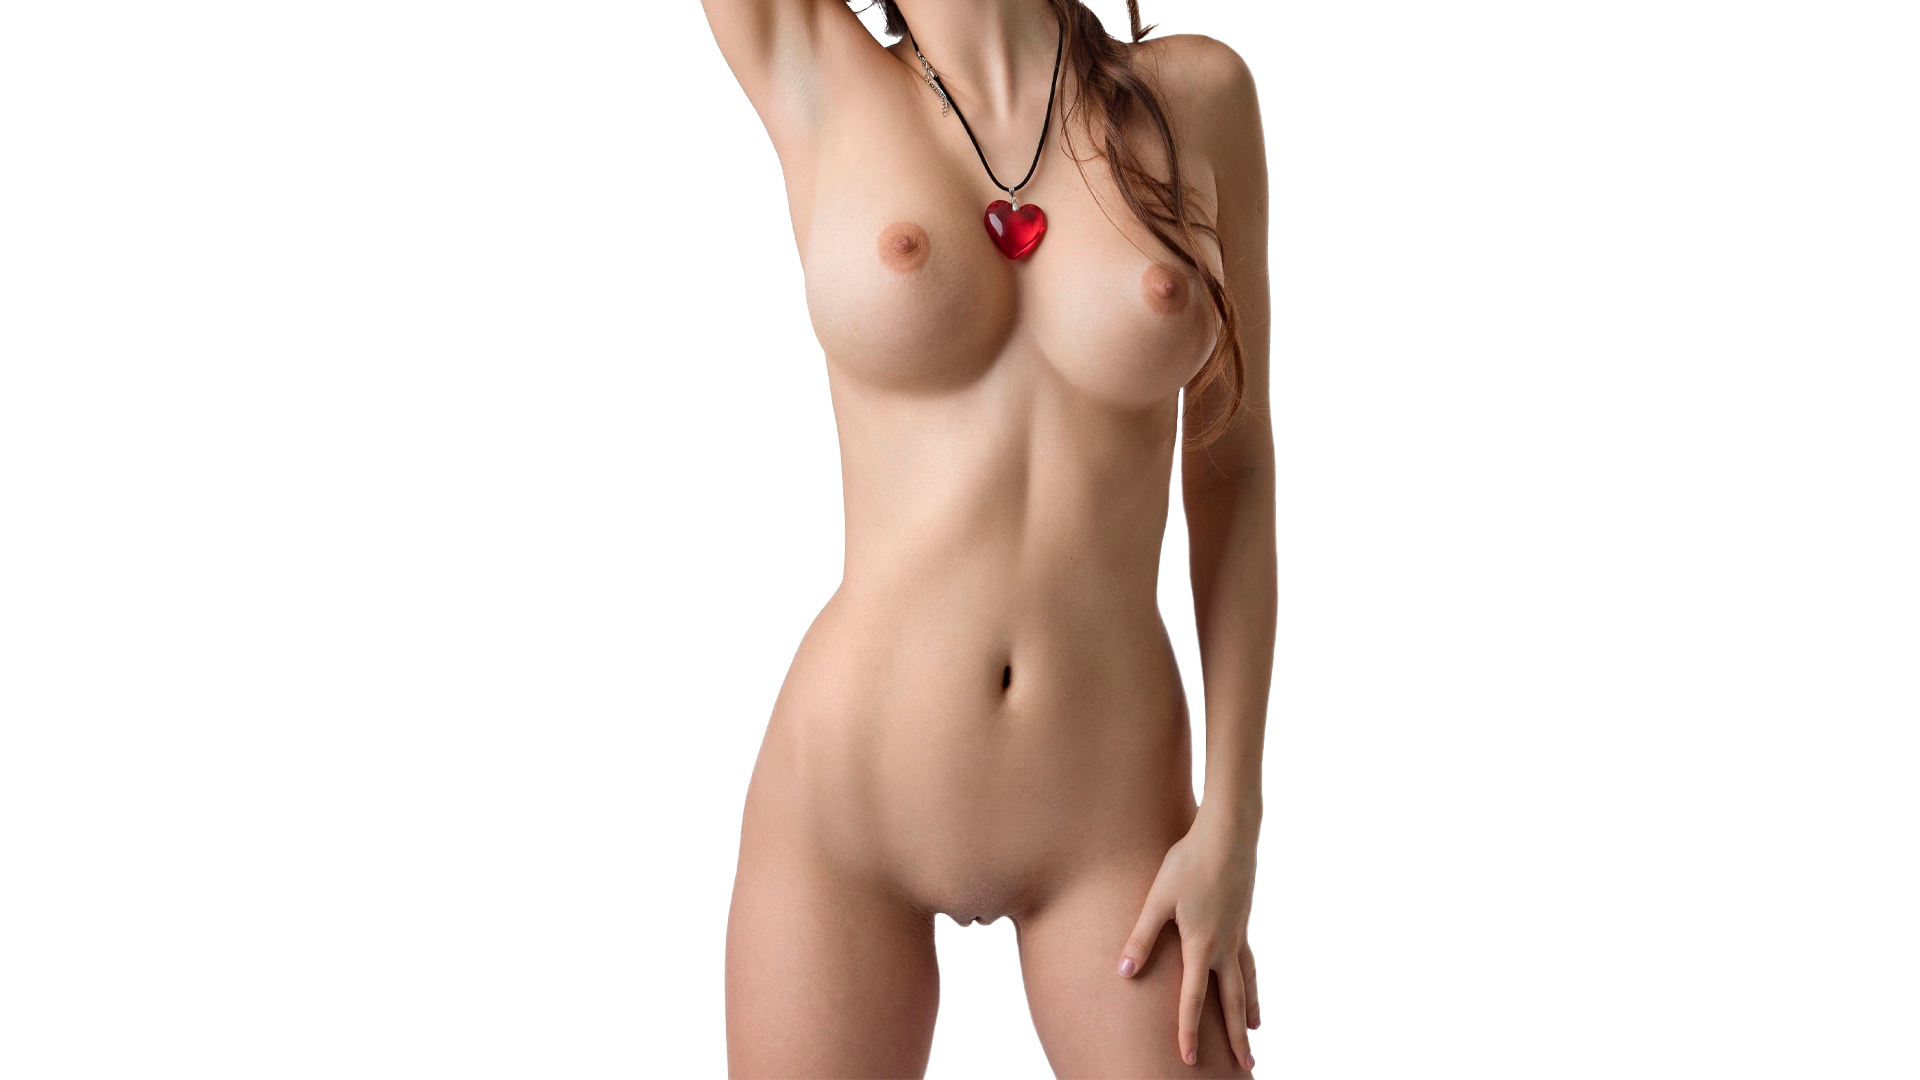
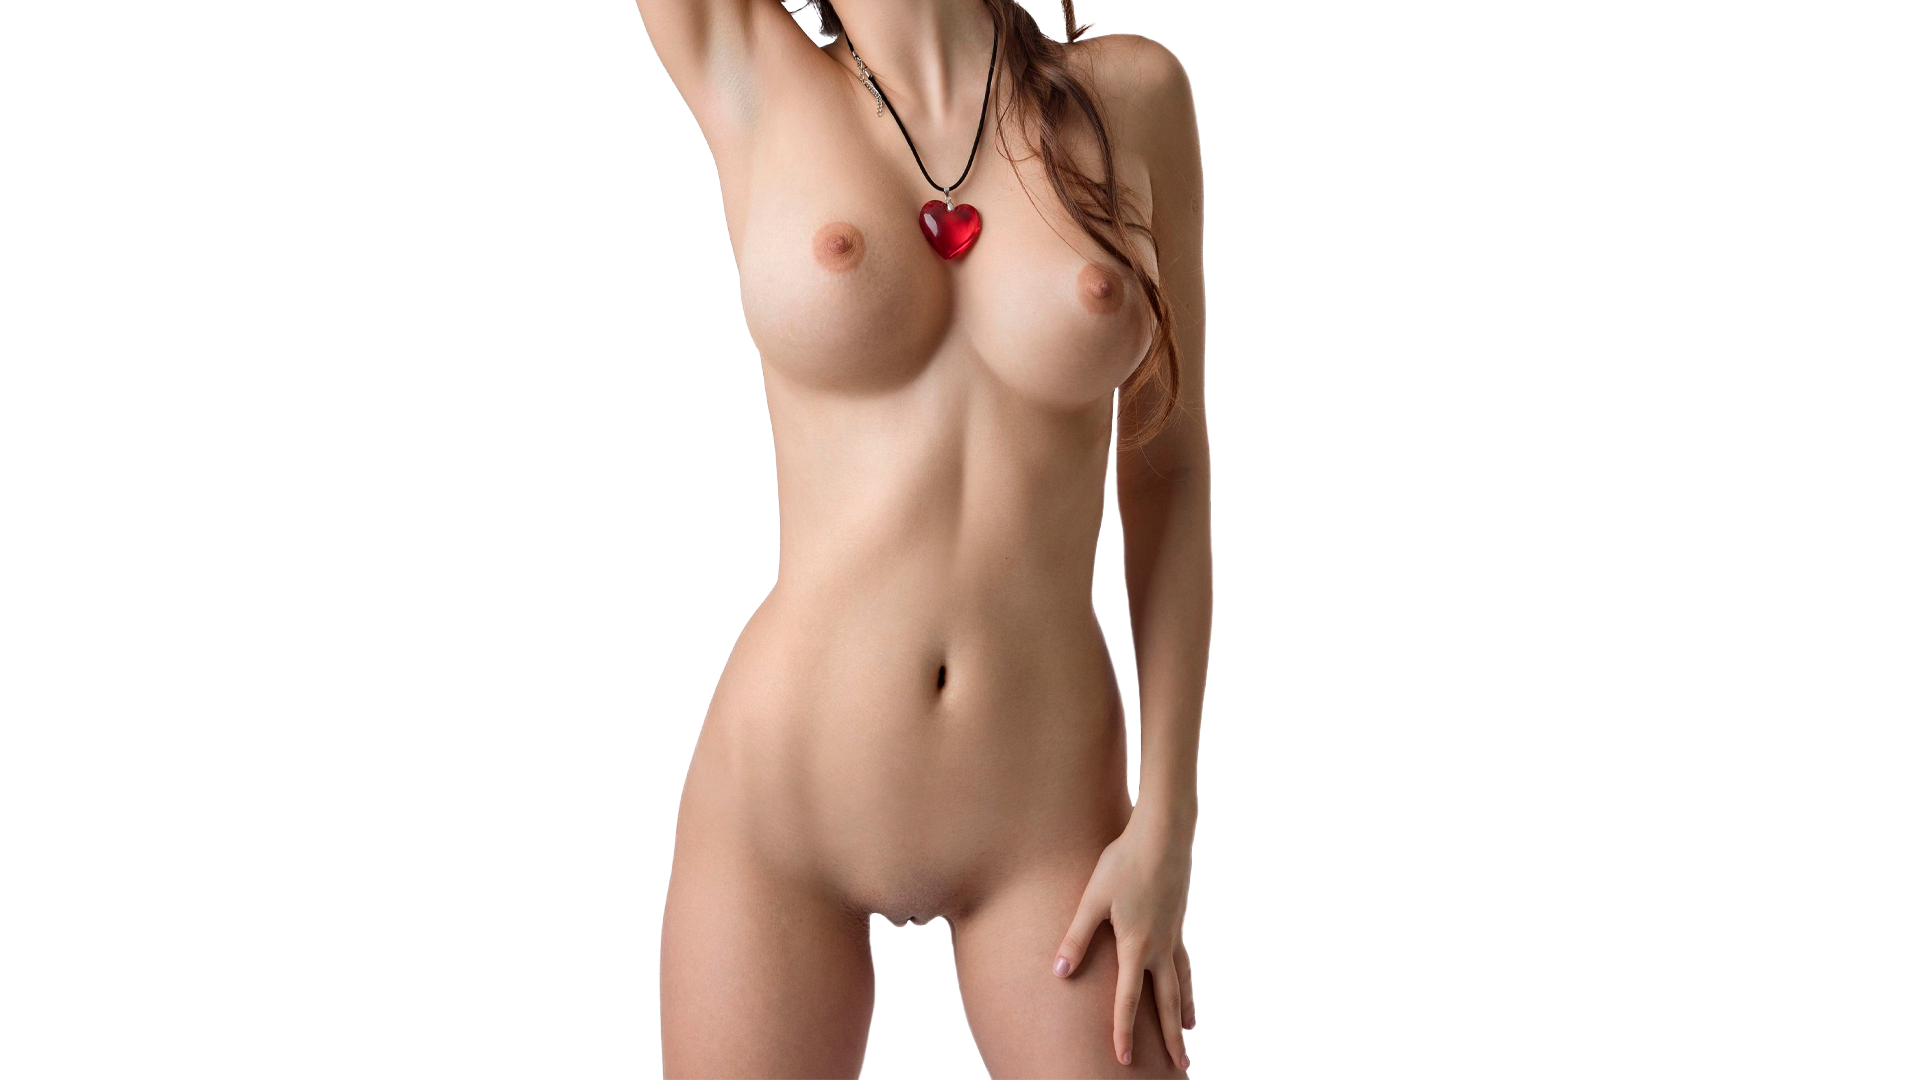
blured images

Changed region(s): [[0.3125, 0.0, 0.6875, 1.0]]

diff --git a/app/src/components/Login.vue b/app/src/components/Login.vue
@@ -1,7 +1,7 @@
 <template>
   <div class="overlay">
     <blur-box
-        class="login" :bg="`img/${theme}.png`">
+        class="login" :bg="`img/${theme}_blr.png`">
         <div class="login__header">Erotique</div>
         <div class="login__body">
           <div class="login__form">
@@ -56,15 +56,14 @@ export default {
   position: relative;
   display: flex;
   flex-direction: column;
-  justify-content: center;
+  justify-content: space-between;
   align-items: center;
-  width: 450px;
+  width: 650px;
   height: 70vh;
   font-family: Montserrat, sans-serif;
-  font-weight: 400;
   border-radius: 10px;
-  box-shadow: 0 0 5px 5px rgba(0, 0, 0, 0.1);
-  color: #333;
+  box-shadow: 0 0 5px 5px rgba(51, 51, 51, 0.2);
+  color: #fff;
   overflow: hidden;
 }
 
@@ -78,7 +77,8 @@ export default {
 
 .login__header {
   height: 200px;
-  font-size: 46px;
+  font-size: 76px;
+  font-weight: 600;
   line-height: 200px;
 }
 .login__body {
@@ -100,7 +100,7 @@ export default {
   width: 100%;
   border: none;
   background: transparent;
-  border-bottom: 1px solid rgba(0,0,0,.66);
+  border-bottom: 1px solid rgba(255,255,255,.85);
   box-sizing: border-box;
   font-size: 24px;
   padding: 15px 10px;
@@ -110,20 +110,18 @@ export default {
   font-weight: 400;
 }
 
-.theme-black .login__form input {
-  border-bottom: 1px solid rgba(255,255,255,.66);
-}
-
 .login__form input[placeholder] {
-  opacity: .66;
+  opacity: 1;
   color: inherit;
+  font-weight: 600;
+  text-align: center;
 }
 
 .login__form button {
   border: none;
   font-size: 30px;
   font-family: Montserrat, sans-serif;
-  font-weight: 400;
+  font-weight: 700;
   background: transparent;
   cursor: pointer;
   opacity: .66;

diff --git a/app/src/components/Theme.vue b/app/src/components/Theme.vue
@@ -1,8 +1,8 @@
 <template>
   <div>
     <div class="themes">
-      <div class="theme gradient-LtoD" :class="{active: active === 'zoe', fade: active !== null && active !== 'zoe'}">
-        <div class="theme__body" :style="{backgroundImage: `url(${require('@/assets/img/hannah.png')})` }" @click="active = 'zoe'">
+      <div class="theme gradient-LtoD" :class="{active: active === 'hannah', fade: active !== null && active !== 'hannah'}">
+        <div class="theme__body" :style="{backgroundImage: `url(${require('@/assets/img/hannah.png')})` }" @click="active = 'hannah'">
           <h2 class="theme__title">
             <small>Set</small>
             <span>Hannah</span>
@@ -78,6 +78,7 @@ export default {
   height: 100vh;
   width: 30%;
   font-size: 46px;
+  font-weight: 700;
   cursor: pointer;
   transform: skewX(-20deg);
   overflow: hidden;

diff --git a/app/src/components/BlurBox.vue b/app/src/components/BlurBox.vue
@@ -29,7 +29,7 @@ export default {
       return require('@/assets/' + this.bg)
     },
     width() {
-      return document.documentElement.clientWidth + "px"
+      return document.documentElement.clientWidth + 50 + "px"
     }
   }
 }
@@ -55,7 +55,7 @@ export default {
   z-index: 0;
   opacity: 1;
   transition: 1s;
-  filter: blur(7px);
+  //filter: blur(20px);
   background-position: center;
 }
 
